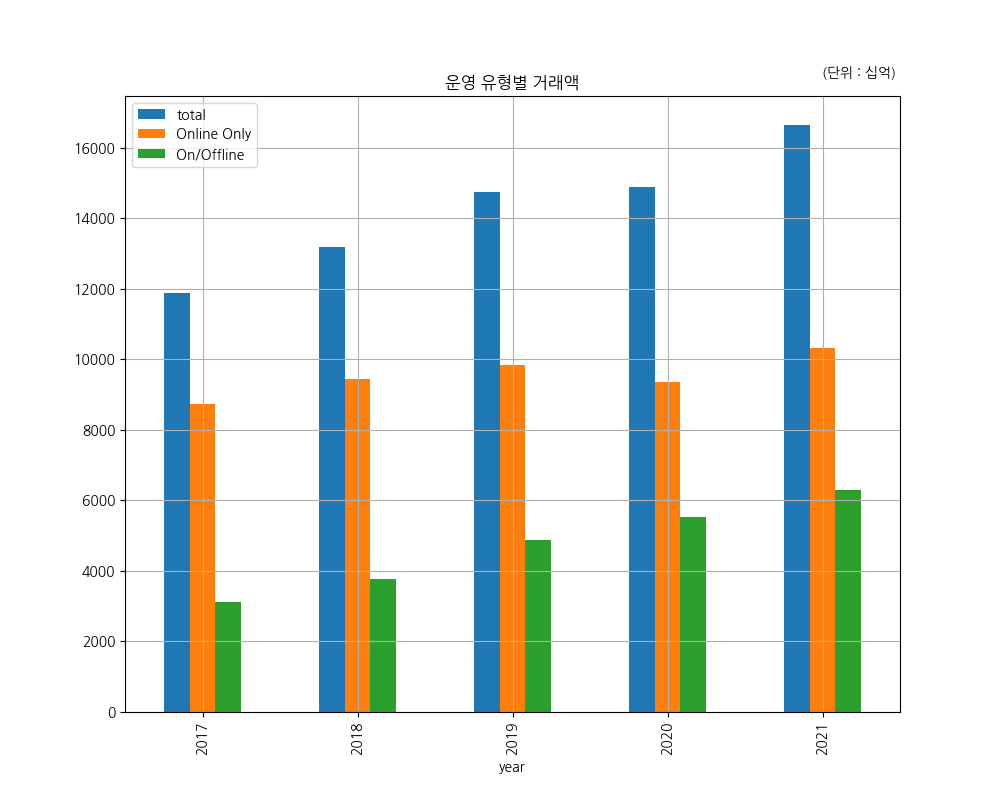
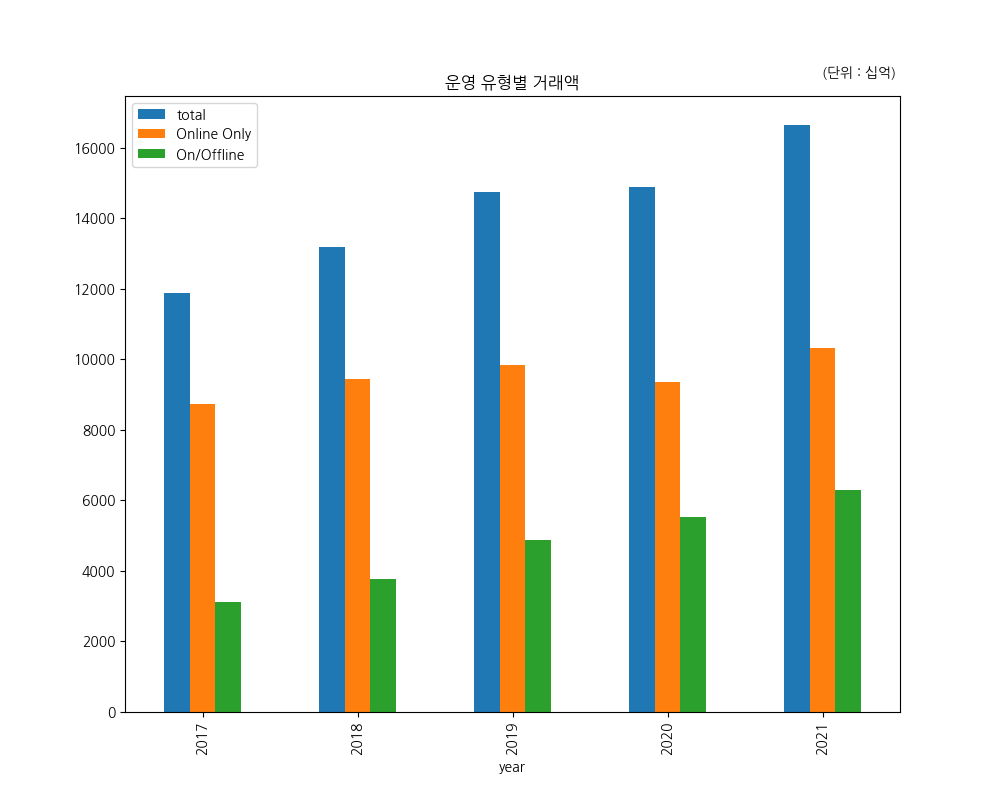
Analysis update

diff --git a/bigdata/analysis/intro.py b/bigdata/analysis/intro.py
@@ -19,7 +19,7 @@ trash = pd.read_csv('trash.csv')
 trash = trash.set_index('year')
 print(trash)
 
-trash['ton/day'].plot(kind='line', figsize=(10, 8), grid=True)
+trash['ton/day'].plot(kind='line', figsize=(10, 8), marker='o', linewidth=2)
 plt.text(4, 7, '(단위 : 톤)')
 plt.legend(loc=2)
 plt.title('일간 폐의류량')
@@ -30,7 +30,7 @@ Dprofit = pd.read_csv('DepartmentProfit.csv')
 Dprofit = Dprofit.set_index('year')
 print(Dprofit)
 
-Dprofit.plot(kind='line', figsize=(10, 8), grid=True)
+Dprofit.plot(kind='line', figsize=(10, 8), marker='o', linewidth=2)
 plt.title('백화점 방문객 증감률')
 plt.text(4, 7, '(단위 : %)')
 plt.legend(loc=2)
@@ -42,7 +42,7 @@ appuser = appuser.loc[:,['appname', 'user']]
 appuser = appuser.set_index('appname')
 print(appuser)
 
-appuser.plot(kind='bar', figsize=(10, 8), grid=True)
+appuser.plot(kind='bar', figsize=(10, 8))
 plt.title('패션앱 이용자 수')
 plt.text(55, 1050000, '(단위 : 명)')
 plt.savefig("output3.png")
@@ -51,7 +51,7 @@ appuser2 = pd.read_csv('appuser.csv')
 appuser2 = appuser2.loc[:,['appname','share']]
 appuser2 = appuser2.set_index('appname')
 
-appuser2.plot(kind='bar', figsize=(10, 8), grid=True)
+appuser2.plot(kind='bar', figsize=(10, 8))
 plt.title('패션앱 시장 점유율')
 plt.text(55, 40, '(단위 : %)')
 plt.savefig("output4.png")
@@ -63,7 +63,7 @@ salesType = salesType.set_index('year')
 salesType = salesType/1000
 print(salesType)
 
-salesType.plot(kind='bar', figsize=(10, 8), grid=True)
+salesType.plot(kind='bar', figsize=(10, 8), linewidth=2)
 plt.text(4, 18000, '(단위 : 십억)')
 plt.legend(loc=2)
 plt.title('판매 채널별 거래액')
@@ -75,7 +75,7 @@ productType = productType.set_index('year')
 productType = productType/1000
 print(productType)
 
-productType.plot(kind='bar', figsize=(10, 8), grid=True)
+productType.plot(kind='bar', figsize=(10, 8), linewidth=2)
 plt.text(4, 18000, '(단위 : 십억)')
 plt.legend(loc=2)
 plt.title('상점 규모별 거래액')
@@ -87,7 +87,7 @@ businessType = businessType.set_index('year')
 businessType = businessType/1000
 print(businessType)
 
-businessType.plot(kind='bar', figsize=(10, 8), grid=True)
+businessType.plot(kind='bar', figsize=(10, 8), linewidth=2)
 plt.text(4, 18000, '(단위 : 십억)')
 plt.legend(loc=2)
 plt.title('운영 유형별 거래액')
